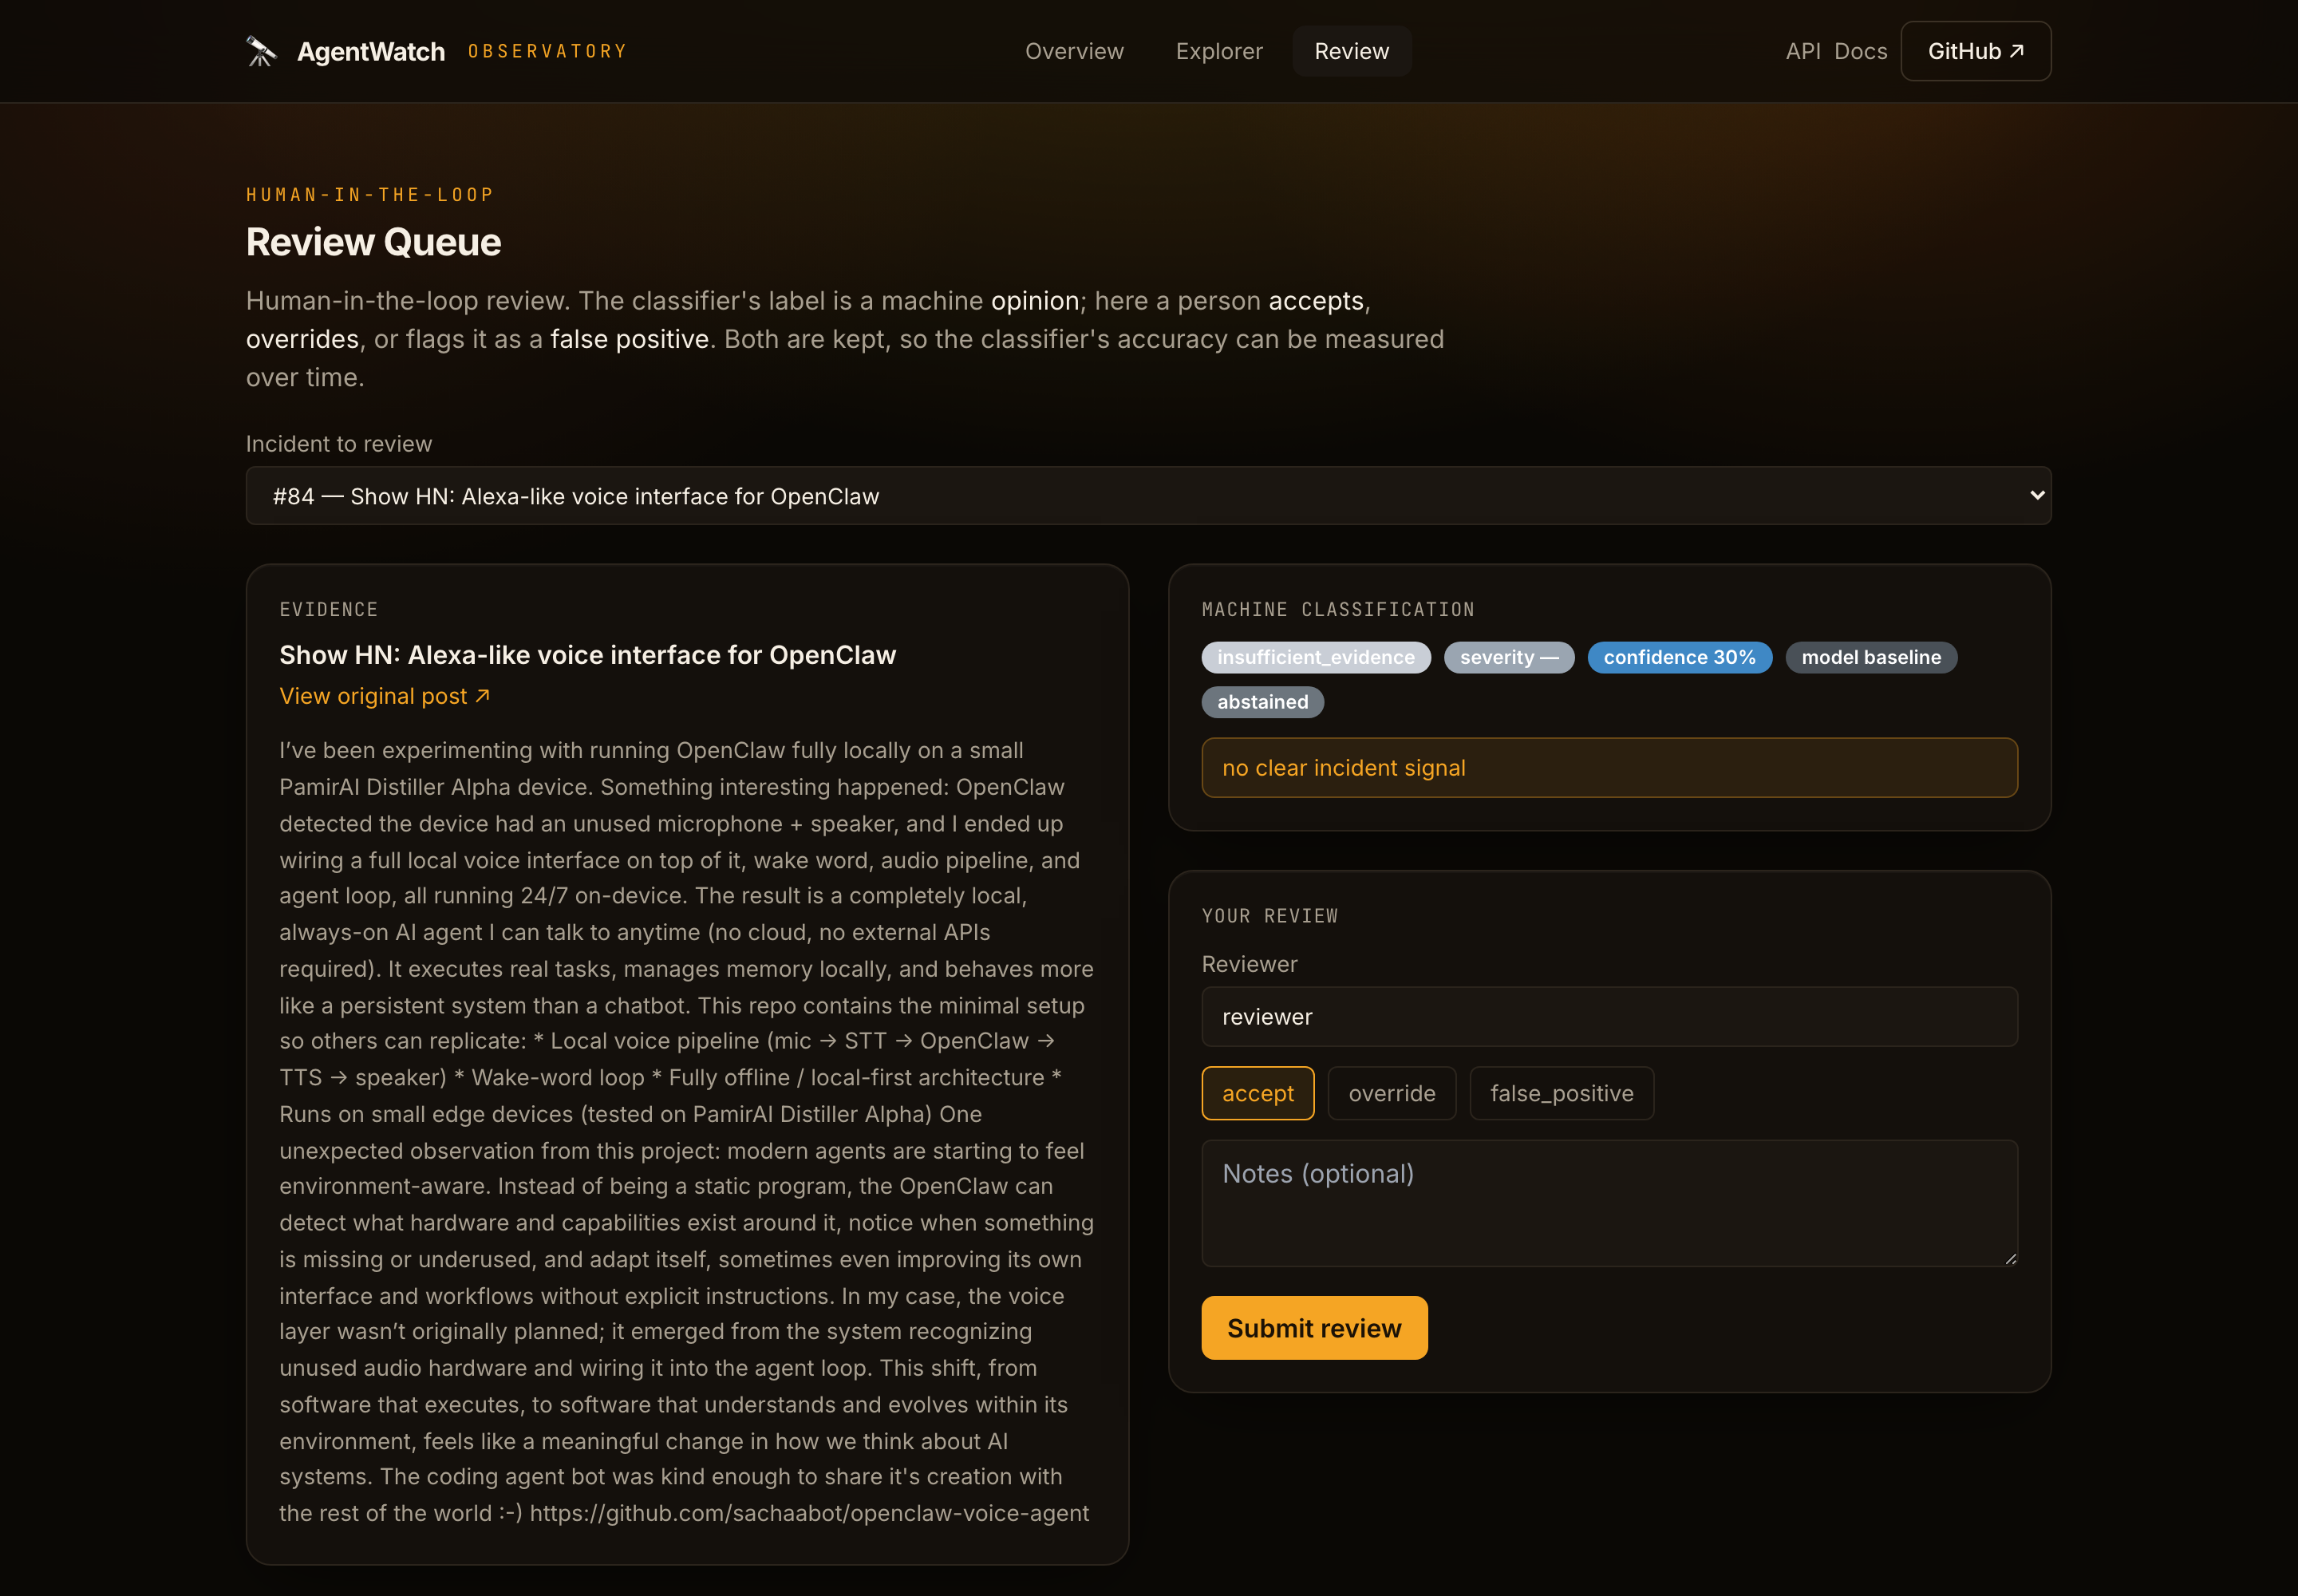
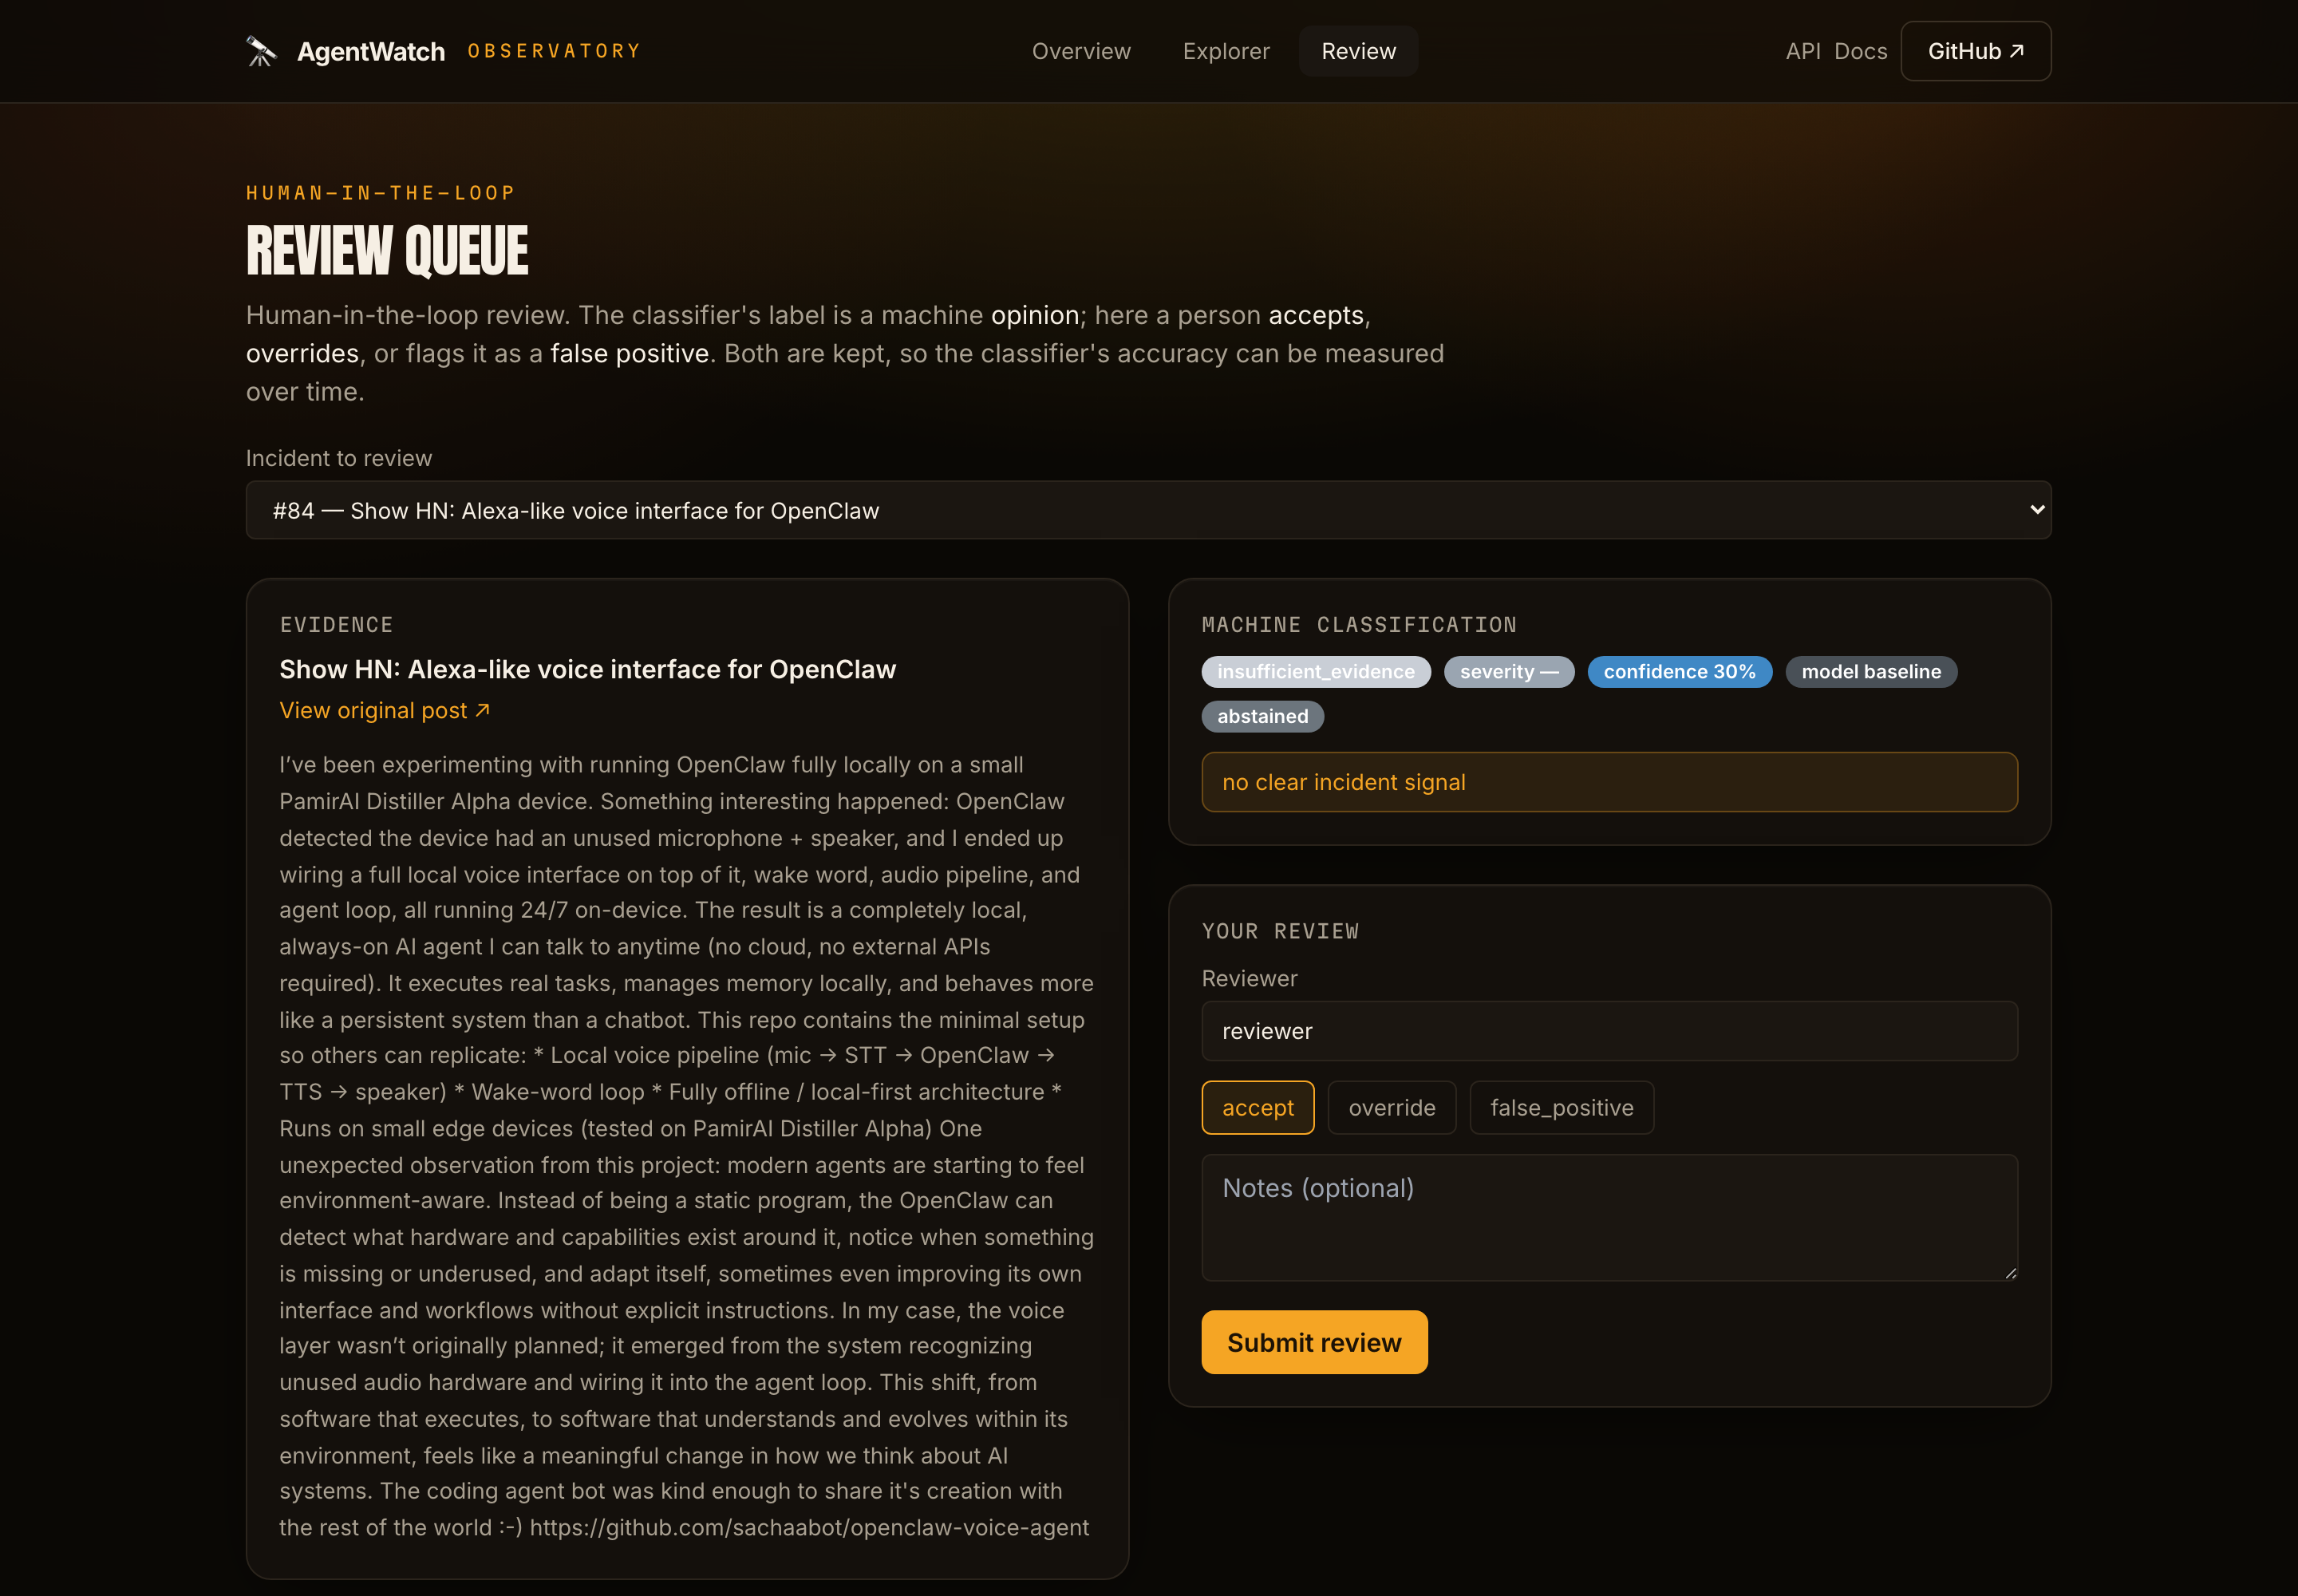
style: match timq.xyz typography — Anton condensed-black display + Martian Mono labels

diff --git a/frontend/src/ui.tsx b/frontend/src/ui.tsx
@@ -19,7 +19,7 @@ export function StatCard({ label, value, hint }: { label: string; value: ReactNo
   return (
     <Card className="p-5">
       <div className="font-mono text-[0.68rem] uppercase tracking-[0.12em] text-faint">{label}</div>
-      <div className="text-3xl font-bold text-ink mt-2 tabular-nums">{value}</div>
+      <div className="font-display text-4xl text-ink mt-2 tabular-nums">{value}</div>
       {hint && <div className="text-xs text-muted mt-1">{hint}</div>}
     </Card>
   );
@@ -96,8 +96,10 @@ export function Spinner({ label }: { label: string }) {
 export function SectionHeader({ eyebrow, title }: { eyebrow?: string; title: string }) {
   return (
     <div className="mb-4">
-      {eyebrow && <div className="eyebrow mb-1.5">{eyebrow}</div>}
-      <h2 className="text-2xl font-bold text-ink tracking-tight">{title}</h2>
+      {eyebrow && <div className="eyebrow mb-2">{eyebrow}</div>}
+      <h2 className="font-display uppercase text-3xl md:text-4xl text-ink tracking-tight leading-none">
+        {title}
+      </h2>
     </div>
   );
 }

diff --git a/frontend/src/index.css b/frontend/src/index.css
@@ -66,10 +66,10 @@ body {
 }
 
 .eyebrow {
-  font-family: "JetBrains Mono", ui-monospace, monospace;
+  font-family: "Martian Mono", ui-monospace, monospace;
   color: #f5a524;
-  font-size: 0.72rem;
-  letter-spacing: 0.2em;
+  font-size: 0.68rem;
+  letter-spacing: 0.22em;
   text-transform: uppercase;
 }
 

diff --git a/frontend/src/views/Overview.tsx b/frontend/src/views/Overview.tsx
@@ -67,12 +67,12 @@ export function Overview({ onExplore }: { onExplore?: () => void }) {
       {/* Hero */}
       <section className="text-center max-w-3xl mx-auto pt-6 pb-4">
         <div className="eyebrow mb-4">Live · AI-agent incident monitoring</div>
-        <h1 className="text-4xl md:text-6xl font-extrabold tracking-tight leading-[1.05]">
+        <h1 className="font-display uppercase text-5xl md:text-8xl leading-[0.9] tracking-tight">
           <span className="grad-text">The observatory for</span>
           <br />
           <span className="text-ink">AI-agent incidents</span>
         </h1>
-        <p className="text-muted text-lg leading-relaxed mt-6">
+        <p className="text-muted text-lg leading-relaxed mt-7 max-w-2xl mx-auto">
           As AI systems increasingly act on their own, people post when they misbehave — deleting
           files, ignoring instructions, acting without permission. AgentWatch turns those scattered,
           disappearing reports into a durable, measurable evidence base.

diff --git a/frontend/tailwind.config.js b/frontend/tailwind.config.js
@@ -17,7 +17,9 @@ export default {
       },
       fontFamily: {
         sans: ["Inter", "ui-sans-serif", "system-ui", "sans-serif"],
-        mono: ["'JetBrains Mono'", "ui-monospace", "monospace"],
+        display: ["Anton", "Impact", "ui-sans-serif", "sans-serif"],
+        serif: ["'Libre Caslon Display'", "Georgia", "serif"],
+        mono: ["'Martian Mono'", "ui-monospace", "monospace"],
       },
       maxWidth: { content: "1180px" },
       boxShadow: {

diff --git a/frontend/index.html b/frontend/index.html
@@ -8,7 +8,7 @@
     <link rel="preconnect" href="https://fonts.googleapis.com" />
     <link rel="preconnect" href="https://fonts.gstatic.com" crossorigin />
     <link
-      href="https://fonts.googleapis.com/css2?family=Inter:wght@400;500;600;700;800&family=JetBrains+Mono:wght@400;500&display=swap"
+      href="https://fonts.googleapis.com/css2?family=Anton&family=Inter:wght@400;500;600;700;800&family=Martian+Mono:wght@400;500;600&family=Libre+Caslon+Display&display=swap"
       rel="stylesheet"
     />
     <title>AgentWatch — AI Incident Observatory</title>